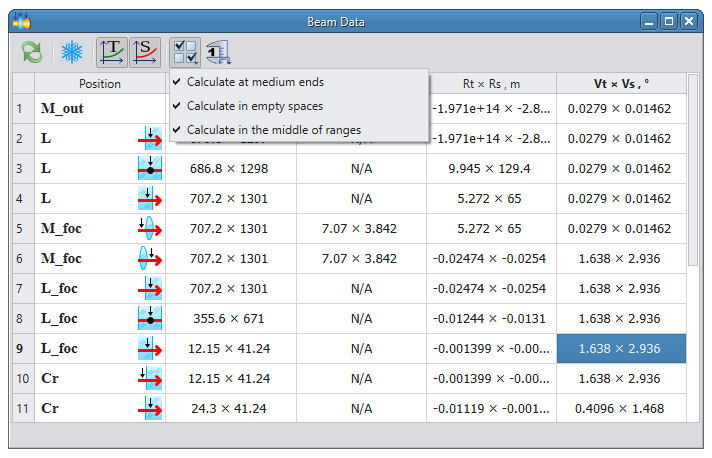
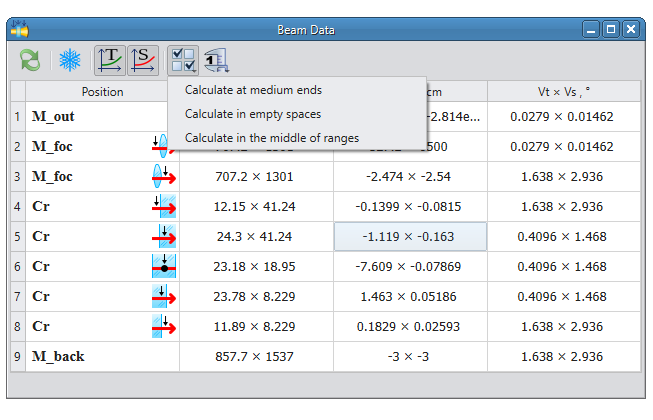
Hide aperture ratio from function

diff --git a/src/math/BeamParamsAtElemsFunction.cpp b/src/math/BeamParamsAtElemsFunction.cpp
@@ -11,7 +11,7 @@
 #define COL_APER_RATIO QStringLiteral("aper")
 #define COL_WAVEFRONT QStringLiteral("wavefront")
 #define COL_ANGLE QStringLiteral("angle")
-#define COL_COUNT 4
+#define COL_COUNT 3
 
 BeamParamsAtElemsFunction::BeamParamsAtElemsFunction(Schema *schema) : TableFunction(schema)
 {
@@ -25,11 +25,11 @@ QVector<TableFunction::ColumnDef> BeamParamsAtElemsFunction::columns() const
     beamRadius.titleS = QStringLiteral("Ws");
     beamRadius.unit = _colUnits.value(COL_BEAMSIZE, AppSettings::instance().defaultUnitBeamRadius);
 
-    ColumnDef aperRatio;
-    aperRatio.id = COL_APER_RATIO;
-    aperRatio.titleT = QStringLiteral("At");
-    aperRatio.titleS = QStringLiteral("As");
-    aperRatio.unit = Z::Units::none();
+    // ColumnDef aperRatio;
+    // aperRatio.id = COL_APER_RATIO;
+    // aperRatio.titleT = QStringLiteral("At");
+    // aperRatio.titleS = QStringLiteral("As");
+    // aperRatio.unit = Z::Units::none();
 
     ColumnDef frontRadius;
     frontRadius.id = COL_WAVEFRONT;
@@ -43,7 +43,7 @@ QVector<TableFunction::ColumnDef> BeamParamsAtElemsFunction::columns() const
     halfAngle.titleS = QStringLiteral("Vs");
     halfAngle.unit = _colUnits.value(COL_ANGLE, AppSettings::instance().defaultUnitAngle);
 
-    return { beamRadius, aperRatio, frontRadius, halfAngle };
+    return { beamRadius, /*aperRatio,*/ frontRadius, halfAngle };
 }
 
 QString BeamParamsAtElemsFunction::columnTitle(const ColumnId &id) const
@@ -66,6 +66,8 @@ int BeamParamsAtElemsFunction::columnCount() const
 
 QVector<Z::PointTS> BeamParamsAtElemsFunction::calculatePumpBeforeSchema(Element *elem)
 {
+    Q_UNUSED(elem)
+
     Z::Matrix unity;
     BeamResult beamT = _pumpCalc->calcT(unity, 1);
     BeamResult beamS = _pumpCalc->calcS(unity, 1);
@@ -73,32 +75,36 @@ QVector<Z::PointTS> BeamParamsAtElemsFunction::calculatePumpBeforeSchema(Element
     Z::PointTS beamRadius(beamT.beamRadius, beamS.beamRadius);
     Z::PointTS frontRadius(beamT.frontRadius, beamS.frontRadius);
     Z::PointTS halfAngle(beamT.halfAngle, beamS.halfAngle);
-    Z::PointTS aperRatio = calcApertureRatio(beamRadius, elem);
+    //Z::PointTS aperRatio = calcApertureRatio(beamRadius, elem);
 
-    return { beamRadius, aperRatio, frontRadius, halfAngle };
+    return { beamRadius, /*aperRatio,*/ frontRadius, halfAngle };
 }
 
 QVector<Z::PointTS> BeamParamsAtElemsFunction::calculateSinglePass(Element *elem, RoundTripCalculator* calc, double ior) const
 {
+    Q_UNUSED(elem)
+
     BeamResult beamT = _pumpCalc->calcT(calc->Mt(), ior);
     BeamResult beamS = _pumpCalc->calcS(calc->Ms(), ior);
 
     Z::PointTS beamRadius(beamT.beamRadius, beamS.beamRadius);
     Z::PointTS frontRadius(beamT.frontRadius, beamS.frontRadius);
     Z::PointTS halfAngle(beamT.halfAngle, beamS.halfAngle);
-    Z::PointTS aperRatio = calcApertureRatio(beamRadius, elem);
+    //Z::PointTS aperRatio = calcApertureRatio(beamRadius, elem);
 
-    return { beamRadius, aperRatio, frontRadius, halfAngle };
+    return { beamRadius, /*aperRatio,*/ frontRadius, halfAngle };
 }
 
 QVector<Z::PointTS> BeamParamsAtElemsFunction::calculateResonator(Element *elem, RoundTripCalculator *calc, double ior) const
 {
+    Q_UNUSED(elem)
+    
     Z::PointTS beamRadius = _beamCalc->beamRadius(calc->Mt(), calc->Ms(), ior);
     Z::PointTS frontRadius = _beamCalc->frontRadius(calc->Mt(), calc->Ms(), ior);
     Z::PointTS halfAngle = _beamCalc->halfAngle(calc->Mt(), calc->Ms(), ior);
-    Z::PointTS aperRatio = calcApertureRatio(beamRadius, elem);
+    //Z::PointTS aperRatio = calcApertureRatio(beamRadius, elem);
     
-    return { beamRadius, aperRatio, frontRadius, halfAngle };
+    return { beamRadius, /*aperRatio,*/ frontRadius, halfAngle };
 }
 
 Z::PointTS BeamParamsAtElemsFunction::calcApertureRatio(const Z::PointTS &beamRadius, Element *elem) const

diff --git a/src/core/Elements.cpp b/src/core/Elements.cpp
@@ -152,17 +152,17 @@ ElemCurveMirror::ElemCurveMirror()
     _alpha = new Z::Parameter(Z::Dims::angular(), QStringLiteral("Alpha"), Z::Strs::alpha(),
                               qApp->translate("Param", "Angle of incidence"),
                               qApp->translate("Param", "Zero angle is normal incidence."));
-    _aper = new Z::Parameter(Z::Dims::linear(), QStringLiteral("D"), QStringLiteral("D"),
-                               qApp->translate("Param", "Aperture"),
-                               qApp->translate("Param", "Element transverse dimension (diameter)."));
+    // _aper = new Z::Parameter(Z::Dims::linear(), QStringLiteral("D"), QStringLiteral("D"),
+    //                            qApp->translate("Param", "Aperture"),
+    //                            qApp->translate("Param", "Element transverse dimension (diameter)."));
 
     _radius->setValue(100_mm);
     _alpha->setValue(0_deg);
-    _aper->setValue(10_mm);
+    //_aper->setValue(10_mm);
 
     addParam(_radius);
     addParam(_alpha);
-    addParam(_aper);
+    //addParam(_aper);
 
     setOption(Element_ChangesWavefront);
 

diff --git a/src/core/Elements.h b/src/core/Elements.h
@@ -51,7 +51,7 @@ DECLARE_ELEMENT(ElemCurveMirror, Element)
     //CHECK_PARAM
     double radius() const { return _radius->value().toSi(); }
     double alpha() const { return _alpha->value().toSi(); }
-    std::optional<Z::Value> aperture() const override { return _aper->value(); }
+    //std::optional<Z::Value> aperture() const override { return _aper->value(); }
 private:
     Z::Parameter *_radius, *_alpha, *_aper;
 DECLARE_ELEMENT_END

diff --git a/help/func_beamdata.rst b/help/func_beamdata.rst
@@ -15,10 +15,10 @@ Beam radius (Wt × Ws)
 
 The beam radius at the element. The displayed measurement units can be changed via the context menu of the column header or by the "Units of measurement" toolbar button.
 
-Aperture ratio (At × As)
-~~~~~~~~~~~~~~~~~~~~~~~~
+.. TODO: Aperture ratio (At × As)
+.. TODO: ~~~~~~~~~~~~~~~~~~~~~~~~
 
-The ratio of the element's aperture to the beam size at the element: `A = (D/2) / w` where `D` is the element's aperture diameter.
+.. TODO: The ratio of the element's aperture to the beam size at the element: `A = (D/2) / w` where `D` is the element's aperture diameter.
 
 Wavefront ROC (Rt × Rs)
 ~~~~~~~~~~~~~~~~~~~~~~~
